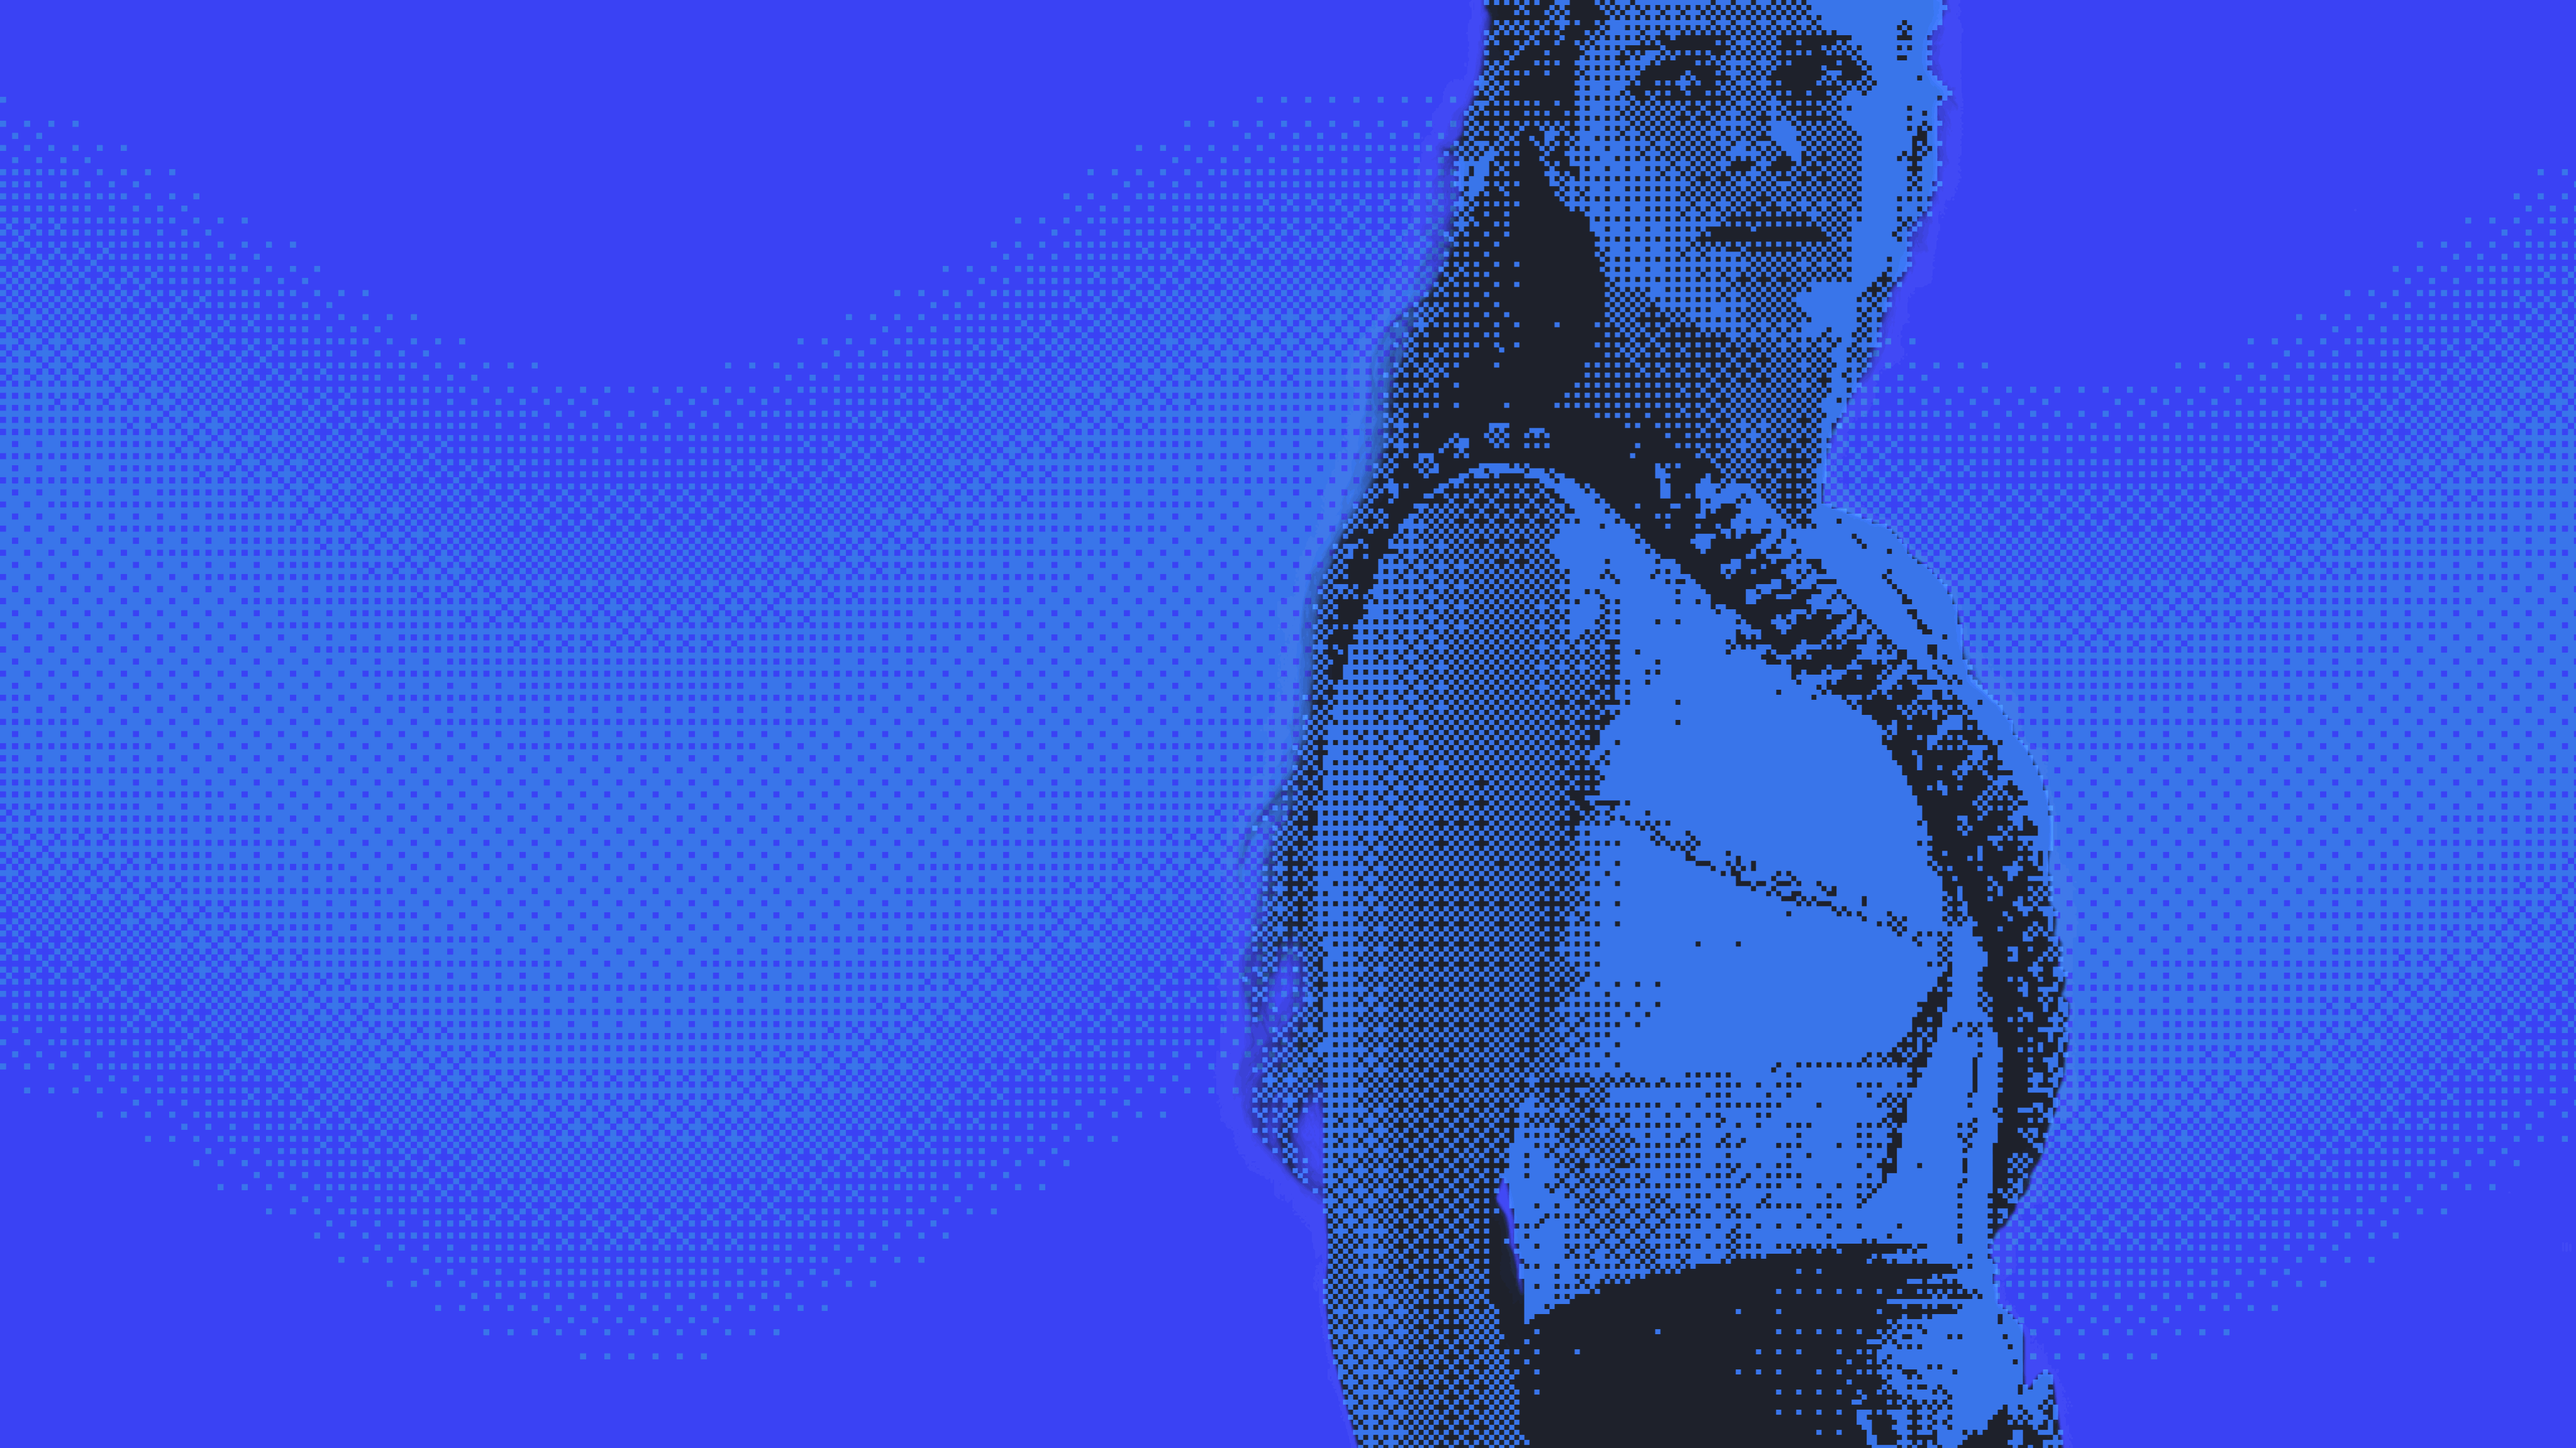
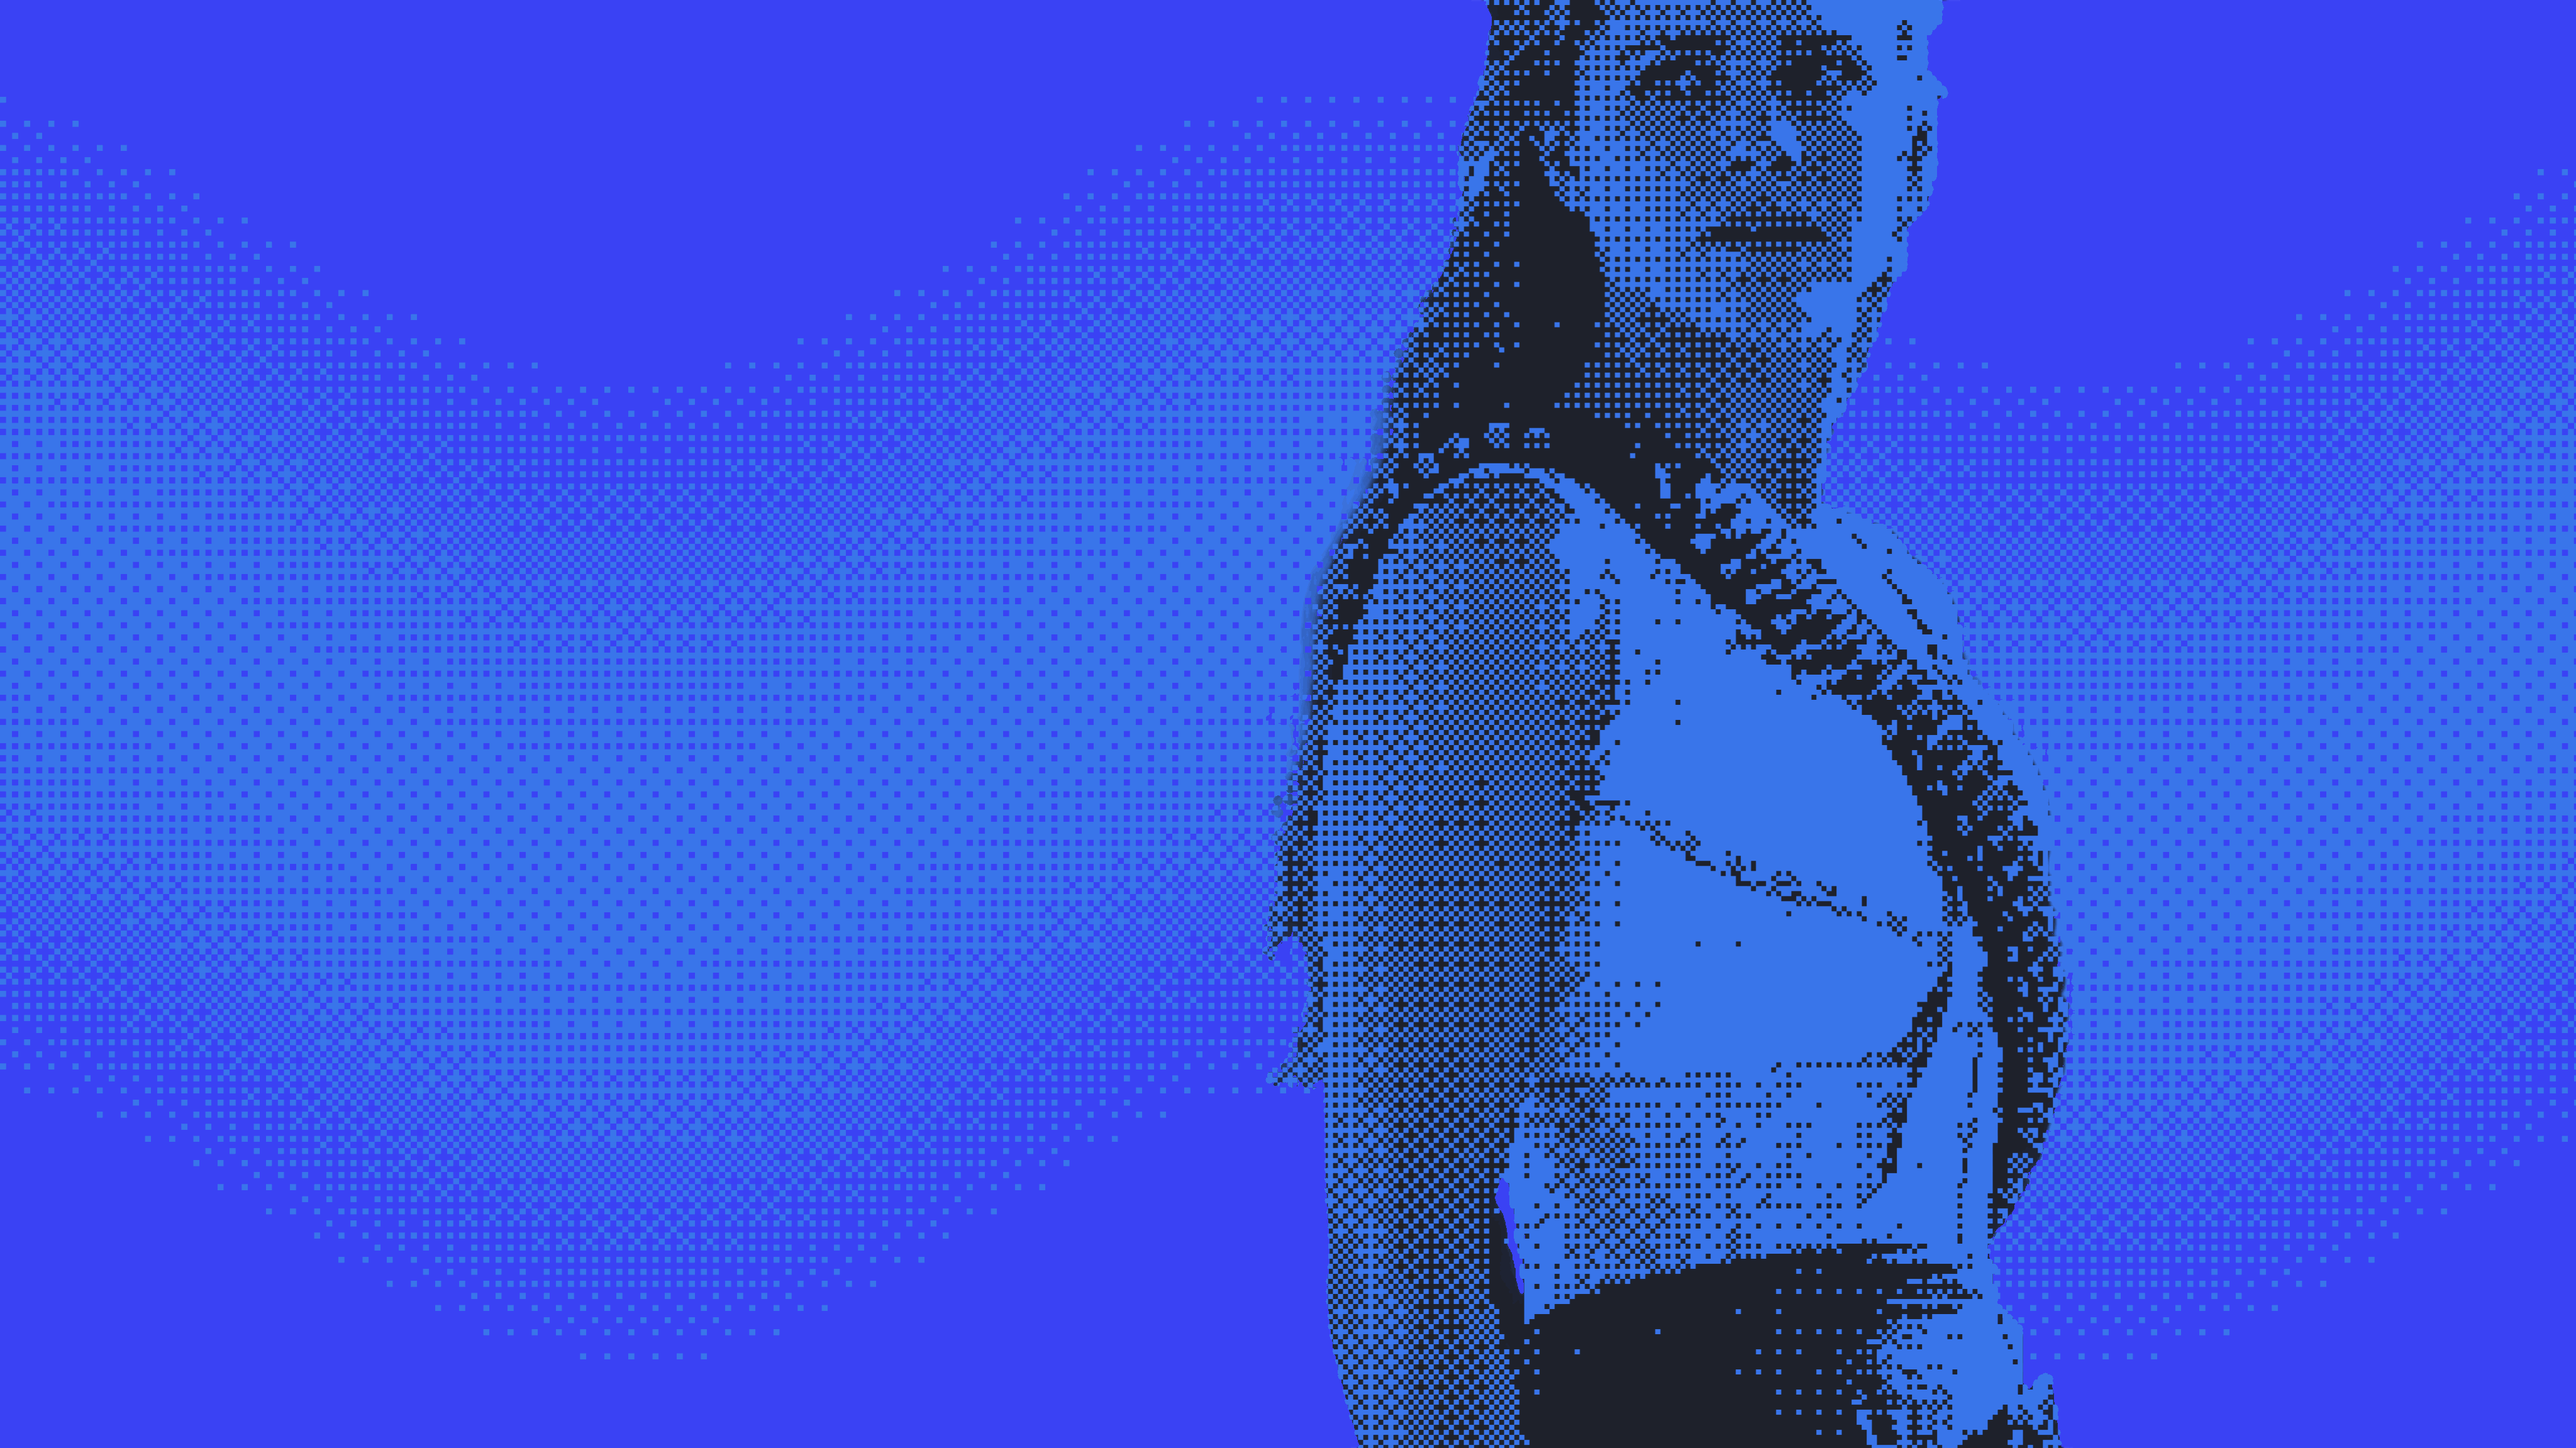
fix(web): Westworld hero art loses the blurred halo along the figure
The Figma export carried the cutout's soft drop shadow and anti-aliased rim,
so a 20–40px band of blended blues ran along the whole silhouette. Over the
flat blue at the top right of the card it read as a smeared blur beside the
dither.

The band is hardened offline: every pixel in it snaps to the figure's light
blue or the stage blue, and where the band crossed the background dot field
the dots are copied back in from one lattice period (38px) further from the
figure, so the field runs unbroken up to a crisp edge. 2% of pixels changed,
all within the band; the asset drops from 171 KB to 123 KB.

Claude (Fable 5.1) via Cursor.

diff --git a/apps/web/src/theme.custom.westworld.css b/apps/web/src/theme.custom.westworld.css
@@ -107,8 +107,13 @@
    theme.custom.css). Static images, static opacity at rest.
 
    westworld-hero.png is the Figma export quantized to 256 colours (octree),
-   171 KB against 1.3 MB (no channel more than 14 levels off);
-   westworld-thread.png is the 448×986 frosted glow strip, truecolour, 68 KB. */
+   with the export's feathered cutout hardened: the figure sat on a soft drop
+   shadow and an anti-aliased rim, which read as a blurred smear along the
+   silhouette over the flat blue. Every pixel in that band now snaps to the
+   figure's light or the stage blue, and where the band crossed the dot field
+   the dots are copied back in from one lattice period (38px) further out.
+   123 KB against 1.3 MB; westworld-thread.png is the 448×986 frosted glow
+   strip, truecolour, 68 KB. */
 :root[data-fork="noahhendrickson-t3code"].dark[data-fork-theme="cool-dark"]
   [data-chat-workspace-drop-target="true"]::before {
   content: "";
